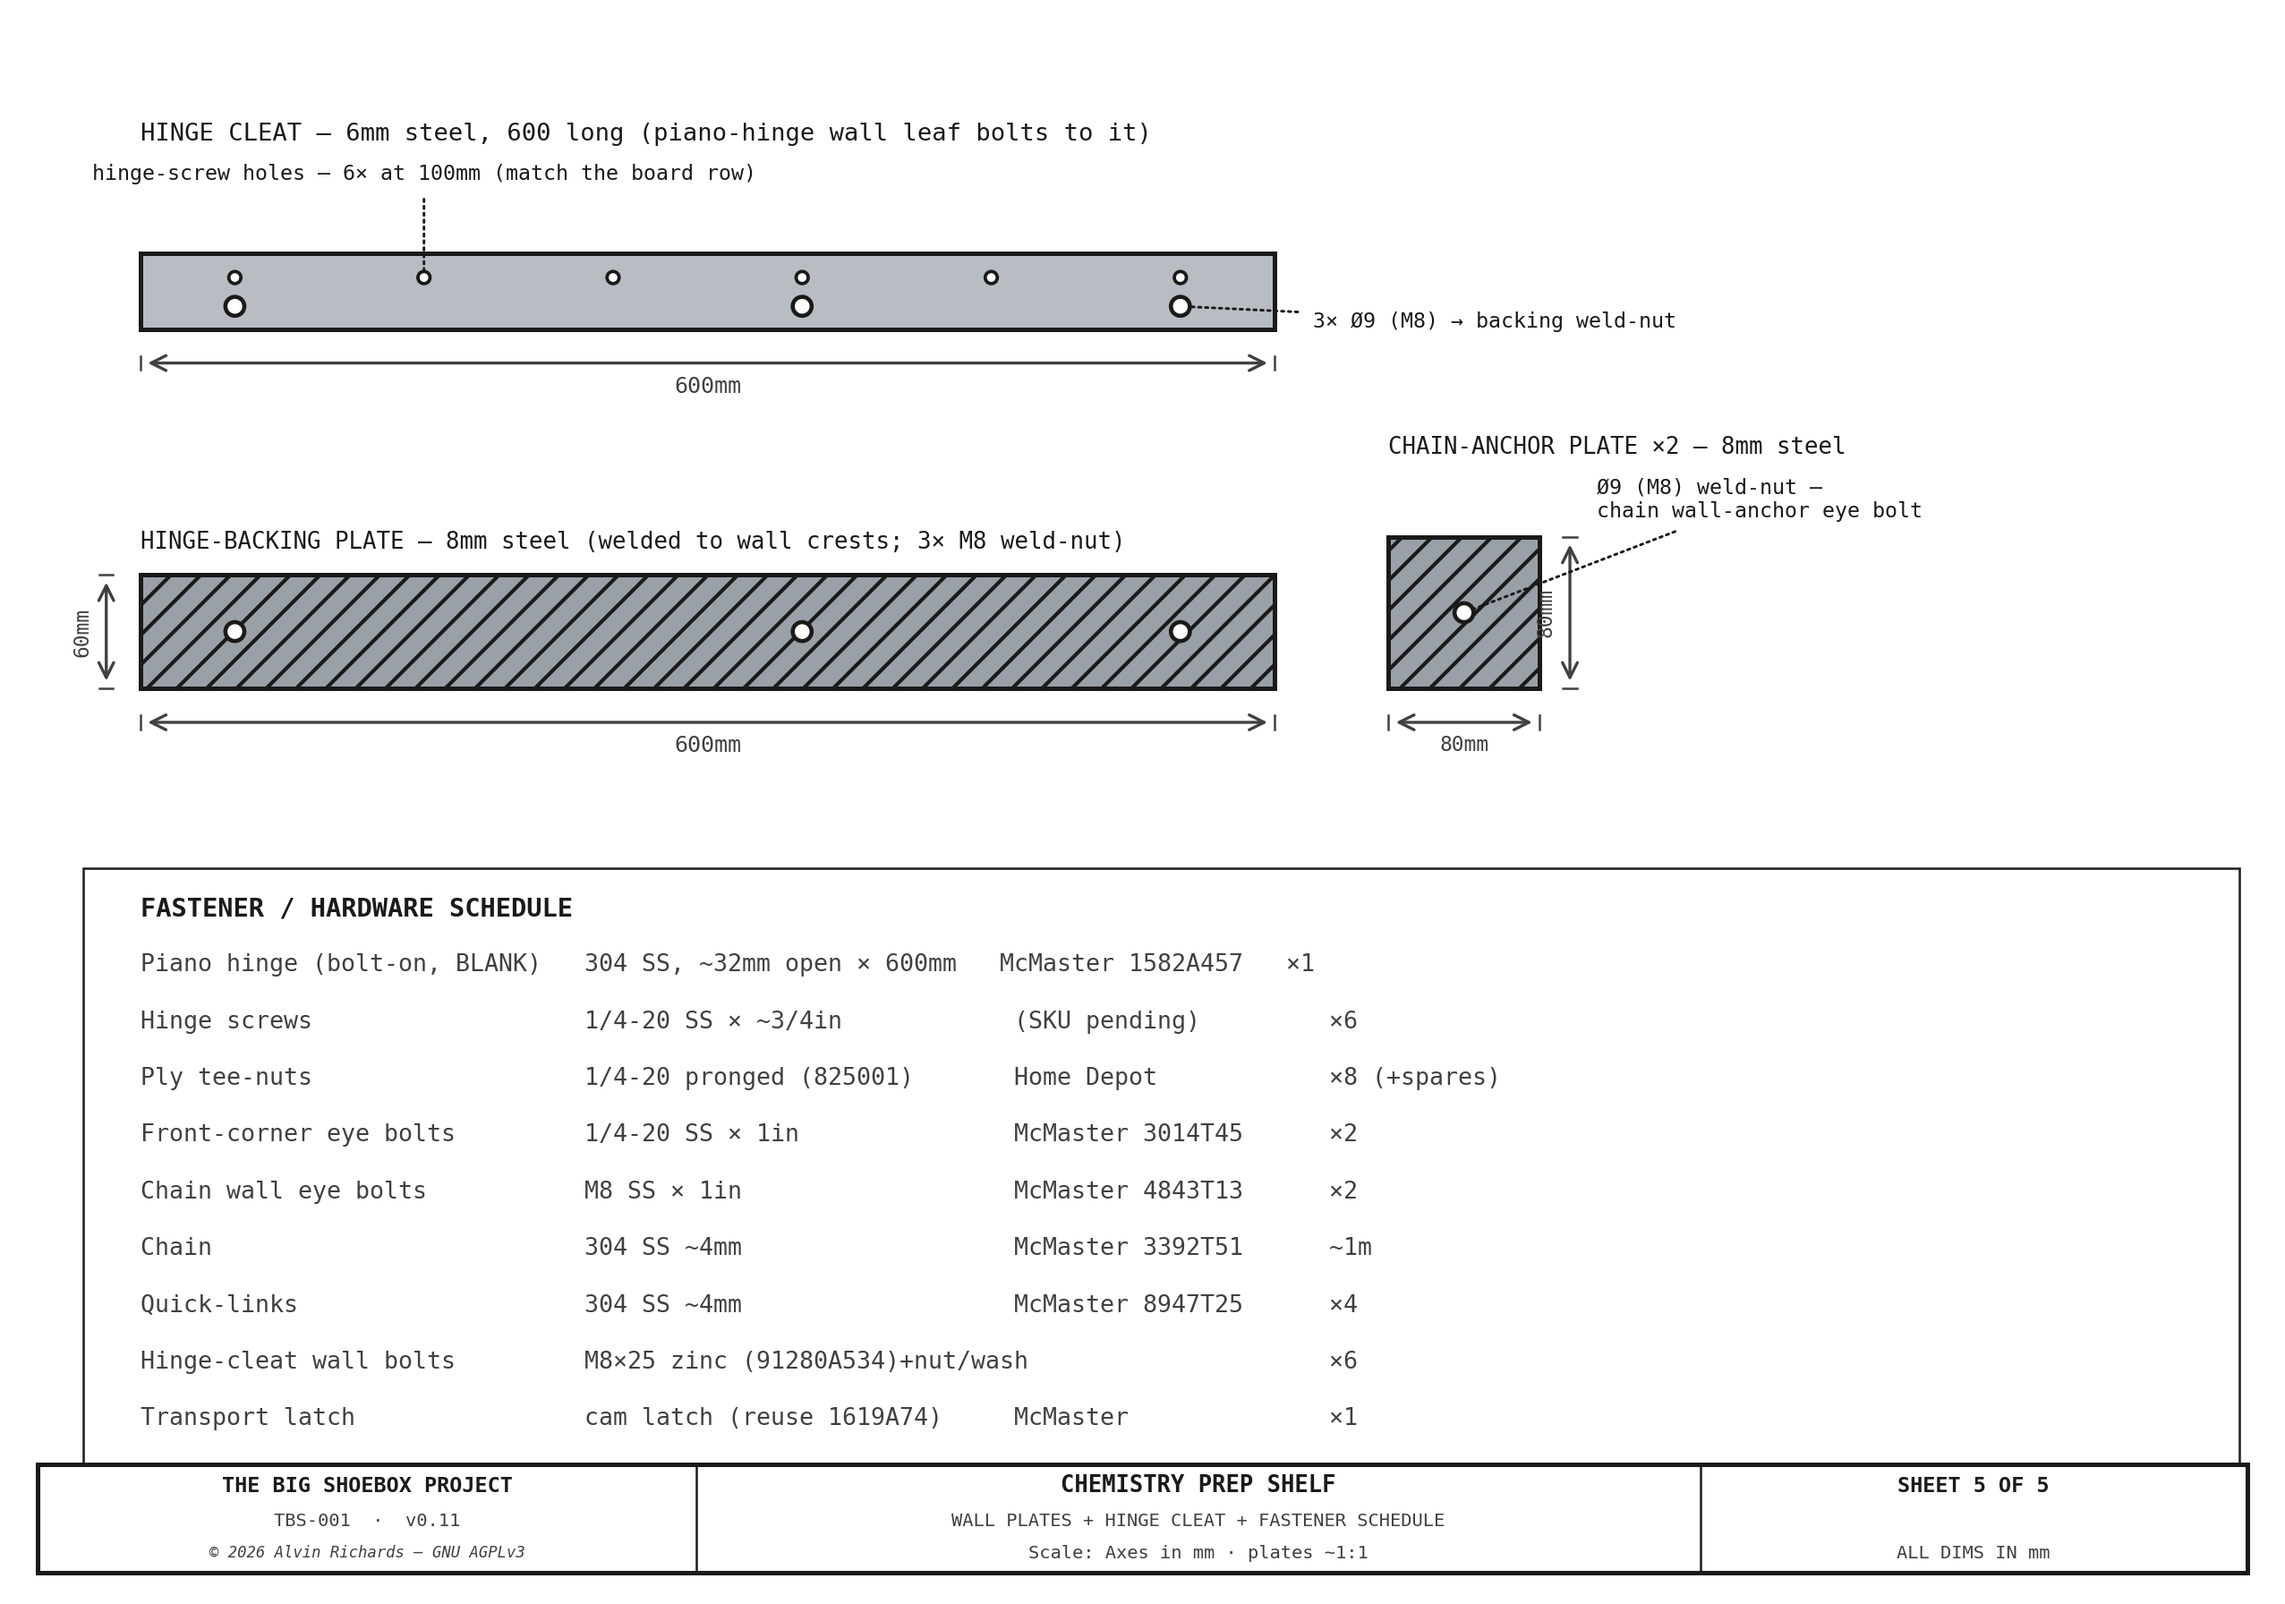
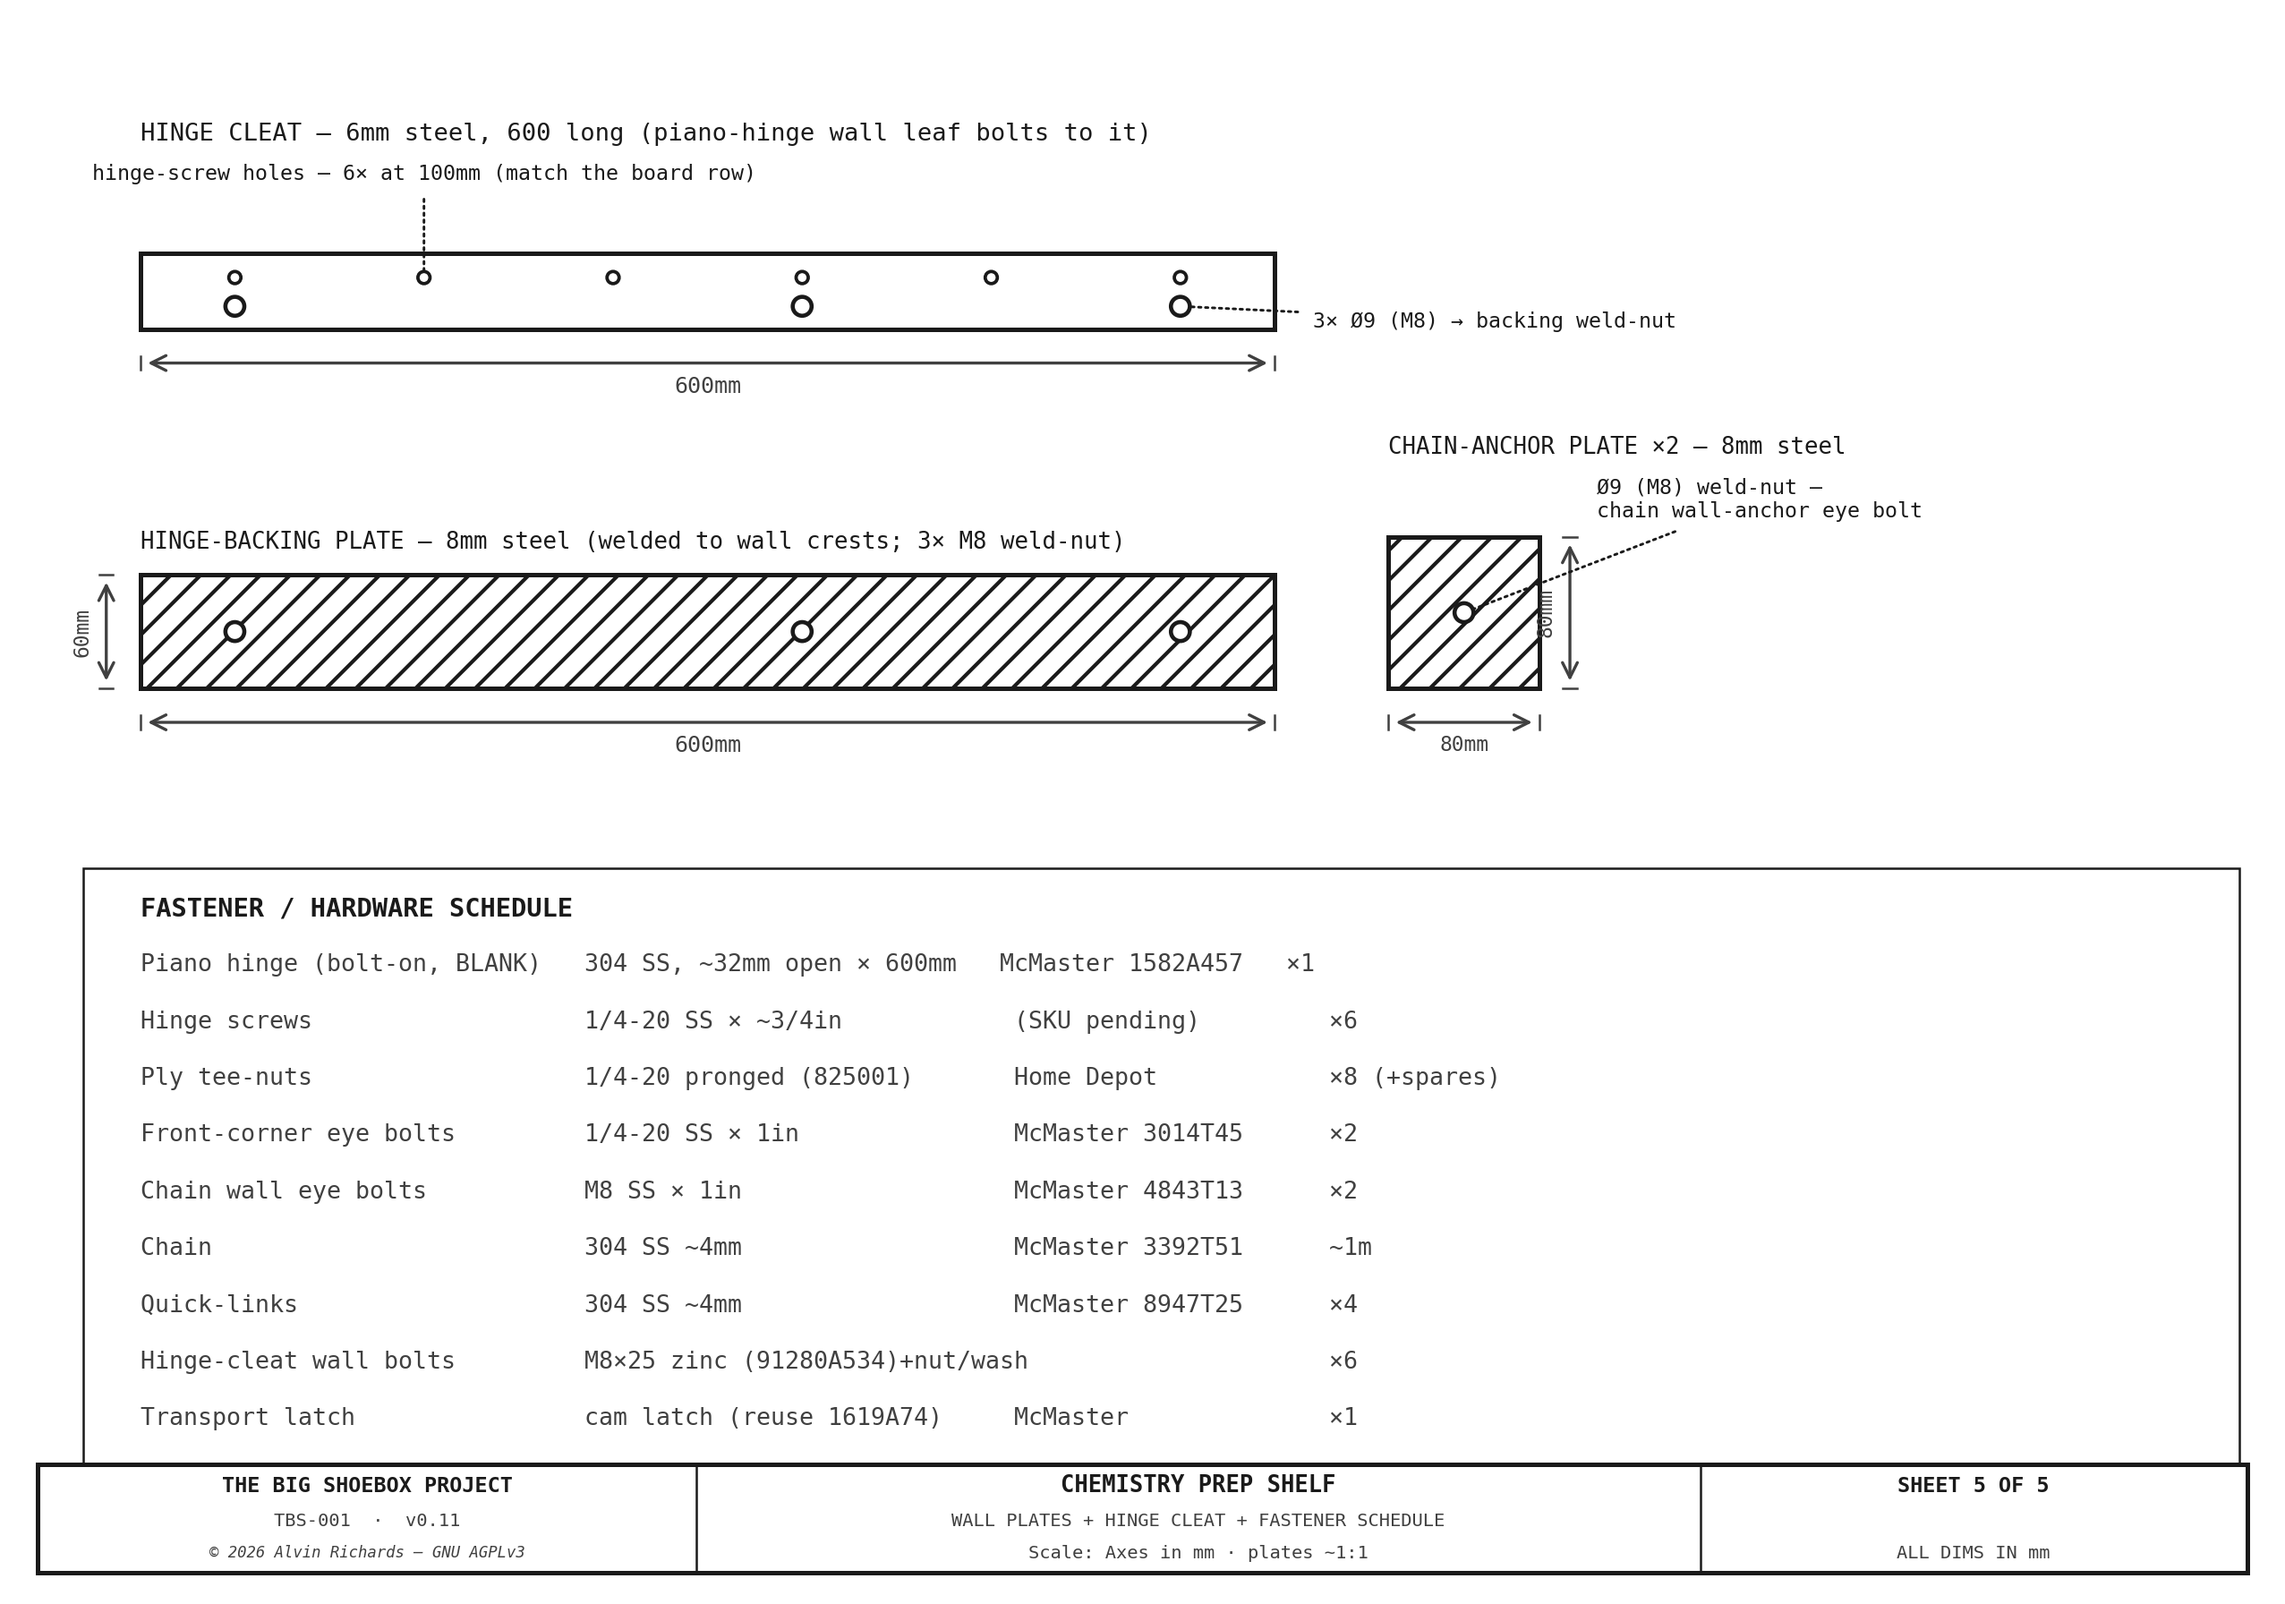
Chem-shelf fab sheets 4-5 → monochrome (single-part blueprint standard)
White fill + black line art (Sheet 4 board; Sheet 5 hinge cleat +
backing plates with black section hatch), per the convention that
single-component dimensional blueprints are monochrome (color reserved
for the multi-component assembly/section views, Sheets 1-3).

Changed region(s): [[0.0619, 0.3438, 0.557, 0.4375], [0.0619, 0.1562, 0.557, 0.2188], [0.5879, 0.3125, 0.6808, 0.4375]]

diff --git a/src/generators/generate_shelf_diagram.py b/src/generators/generate_shelf_diagram.py
@@ -211,7 +211,7 @@ def sheet3():
 
     # welded 8mm steel backing plates on the wall face (behind the hinge cleat + each stay anchor)
     for (bz, bh) in [(SHELF_H - 8, 68), (STAY_Z - 14, 28)]:
-        ax.add_patch(Rectangle((-6, bz), 8, bh, fc="#9AA0A8", ec=C_OUT, lw=1.0, hatch="///", zorder=3))
+        ax.add_patch(Rectangle((-6, bz), 8, bh, fc="white", ec=C_OUT, lw=1.0, hatch="///", zorder=3))
     leader(ax, -6, SHELF_H + 30, -34, SHELF_H + 60,
            "8mm WELDED BACKING PLATE\n(flat load anchor — behind the\nhinge cleat + each chain\nwall anchor; M8 weld-nuts)",
            color=C_OUT, fs=6, ha="right", font=FONT)
@@ -267,7 +267,7 @@ def sheet4():
     ax.set_aspect("equal"); ax.axis("off")
 
     # board outline (top view; back edge = hinge at Yd0, front edge at Yd=SHELF_DEPTH)
-    ax.add_patch(Rectangle((0, 0), SHELF_W, SHELF_DEPTH, fc=C_SHELF, ec=C_OUT, lw=1.4, zorder=2))
+    ax.add_patch(Rectangle((0, 0), SHELF_W, SHELF_DEPTH, fc="white", ec=C_OUT, lw=1.4, zorder=2))
     # spill lip inner lines on the 3 free edges (front + 2 sides); back edge = hinge, no lip
     for (x0, y0, x1, y1) in [(0, SHELF_DEPTH - LIP_W, SHELF_W, SHELF_DEPTH - LIP_W),
                              (LIP_W, 0, LIP_W, SHELF_DEPTH),
@@ -323,7 +323,7 @@ def sheet5():
 
     # ── Hinge cleat + its 8mm hinge-backing plate (drawn 1:1-ish, top zone) ──
     cx0, cy0, CL_W, CL_H = 60, 660, 600, 40
-    ax.add_patch(Rectangle((cx0, cy0), CL_W, CL_H, fc="#B8BDC4", ec=C_OUT, lw=1.2, zorder=3))
+    ax.add_patch(Rectangle((cx0, cy0), CL_W, CL_H, fc="white", ec=C_OUT, lw=1.2, zorder=3))
     for x in HINGE_XS:                                        # hinge-screw holes (align to the board tee-nut row)
         ax.add_patch(Circle((cx0 + x, cy0 + CL_H * 0.68), 3.2, fc="white", ec=C_OUT, lw=0.9, zorder=5))
     for x in (HINGE_XS[0], HINGE_XS[len(HINGE_XS)//2], HINGE_XS[-1]):   # M8 cleat→backing bolts
@@ -339,7 +339,7 @@ def sheet5():
     # ── 8mm backing plates (mid zone) ──
     # hinge-backing plate (long)
     hbx, hby, HB_W, HB_H = 60, 470, 600, 60
-    ax.add_patch(Rectangle((hbx, hby), HB_W, HB_H, fc="#9AA0A8", ec=C_OUT, lw=1.2, hatch="///", zorder=3))
+    ax.add_patch(Rectangle((hbx, hby), HB_W, HB_H, fc="white", ec=C_OUT, lw=1.2, hatch="///", zorder=3))
     for x in (HINGE_XS[0], HINGE_XS[len(HINGE_XS)//2], HINGE_XS[-1]):
         ax.add_patch(Circle((hbx + x, hby + HB_H / 2), 5, fc="white", ec=C_OUT, lw=1.1, zorder=5))
     draw_dim_h(ax, hbx, hbx + HB_W, hby - 18, f"{HB_W}mm", fs=6, font=FONT, above=False)
@@ -349,7 +349,7 @@ def sheet5():
 
     # chain-anchor backing plate (small, ×2)
     abx, aby, AB = 720, 470, 80
-    ax.add_patch(Rectangle((abx, aby), AB, AB, fc="#9AA0A8", ec=C_OUT, lw=1.2, hatch="///", zorder=3))
+    ax.add_patch(Rectangle((abx, aby), AB, AB, fc="white", ec=C_OUT, lw=1.2, hatch="///", zorder=3))
     ax.add_patch(Circle((abx + AB / 2, aby + AB / 2), 5, fc="white", ec=C_OUT, lw=1.1, zorder=5))
     draw_dim_h(ax, abx, abx + AB, aby - 18, f"{AB}mm", fs=5.5, font=FONT, above=False)
     draw_dim_v(ax, abx + AB + 16, aby, aby + AB, f"{AB}mm", fs=5.5, font=FONT)
